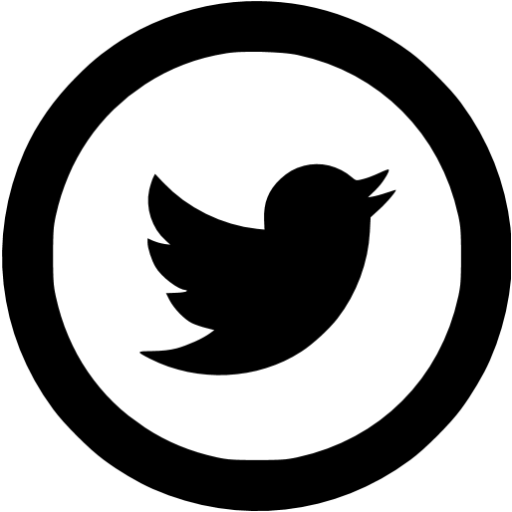
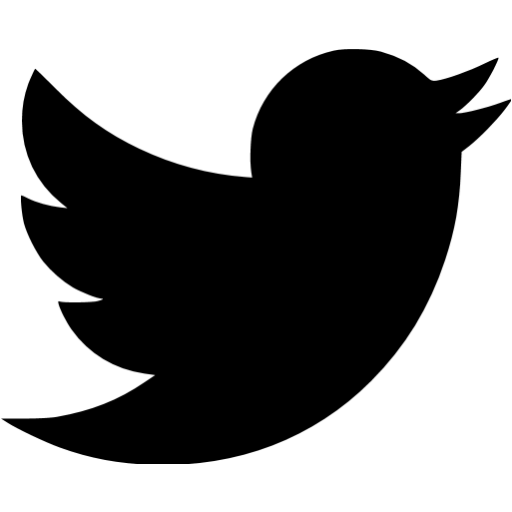
Linksを作成

diff --git a/components/Links.js b/components/Links.js
@@ -1,0 +1,60 @@
+import React from 'react'
+import styled from 'styled-components'
+import { Layout } from '../public/Layout'
+import githubIcon from '../public/images/github.png'
+import twitterIcon from '../public/images/twitter.png'
+import atcoderIcon from '../public/images/atcoder.png'
+
+const Wrapper = styled.div`
+  margin-top: 100px;
+`
+
+const Title = styled.h1`
+  font-size: ${Layout.Text.Largest}px;
+  color: #3e4448;
+  margin: 0 auto;
+  border-bottom: 2px solid #3e4448;
+  width: 100px;
+  margin-bottom: 40px;
+`
+
+const LinksIconWrapper = styled.div`
+  display: flex;
+  justify-content: center;
+`
+
+const Link = styled.a`
+  transition: all 0.5s ease;
+  &:hover {
+    opacity: 0.7;
+    filter: alpha(opacity=70);
+  }
+`
+
+const LinkIcon = styled.img`
+  width: 50px;
+  height: 50px;
+`
+
+export const Links = () => {
+  return (
+    <Wrapper>
+      <Title>Links</Title>
+      <LinksIconWrapper>
+        <Link href="https://github.com/yotaiyo" target="_blank">
+          <LinkIcon src={githubIcon} alt="github" />
+        </Link>
+        <Link href="https://twitter.com/yotaiyo_1218" target="_blank">
+          <LinkIcon
+            src={twitterIcon}
+            style={{ marginLeft: 30, marginRight: 30 }}
+            alt="twitter"
+          />
+        </Link>
+        <Link href="https://atcoder.jp/users/yotaiyo" target="_blank">
+          <LinkIcon src={atcoderIcon} alt="atcoder" />
+        </Link>
+      </LinksIconWrapper>
+    </Wrapper>
+  )
+}

diff --git a/pages/index.js b/pages/index.js
@@ -2,9 +2,10 @@ import Layout from '../components/MyLayout'
 import styled from 'styled-components'
 import { Profile } from '../components/Profile'
 import { History } from '../components/History'
+import { Links } from '../components/Links'
 
 const Wrapper = styled.div`
-  text-align: center;
+  margin-bottom: 100px;
 `
 
 export default () => (
@@ -12,6 +13,7 @@ export default () => (
     <Wrapper>
       <Profile />
       <History />
+      <Links />
     </Wrapper>
   </Layout>
 )

diff --git a/components/History.js b/components/History.js
@@ -11,7 +11,7 @@ const Title = styled.h1`
   color: #3e4448;
   margin: 0 auto;
   border-bottom: 2px solid #3e4448;
-  width: 170px;
+  width: 140px;
   margin-bottom: 40px;
 `
 
@@ -42,6 +42,7 @@ const CardWrapper = styled.div`
   height: 200px;
   width: 680px;
   flex: 1;
+  text-align: center;
 `
 
 const CardTitle = styled.div`

diff --git a/components/Profile.js b/components/Profile.js
@@ -12,7 +12,7 @@ const Title = styled.h1`
   color: #3e4448;
   margin: 0 auto;
   border-bottom: 2px solid #3e4448;
-  width: 150px;
+  width: 130px;
 `
 
 const IconAndItemsWrapper = styled.div`
